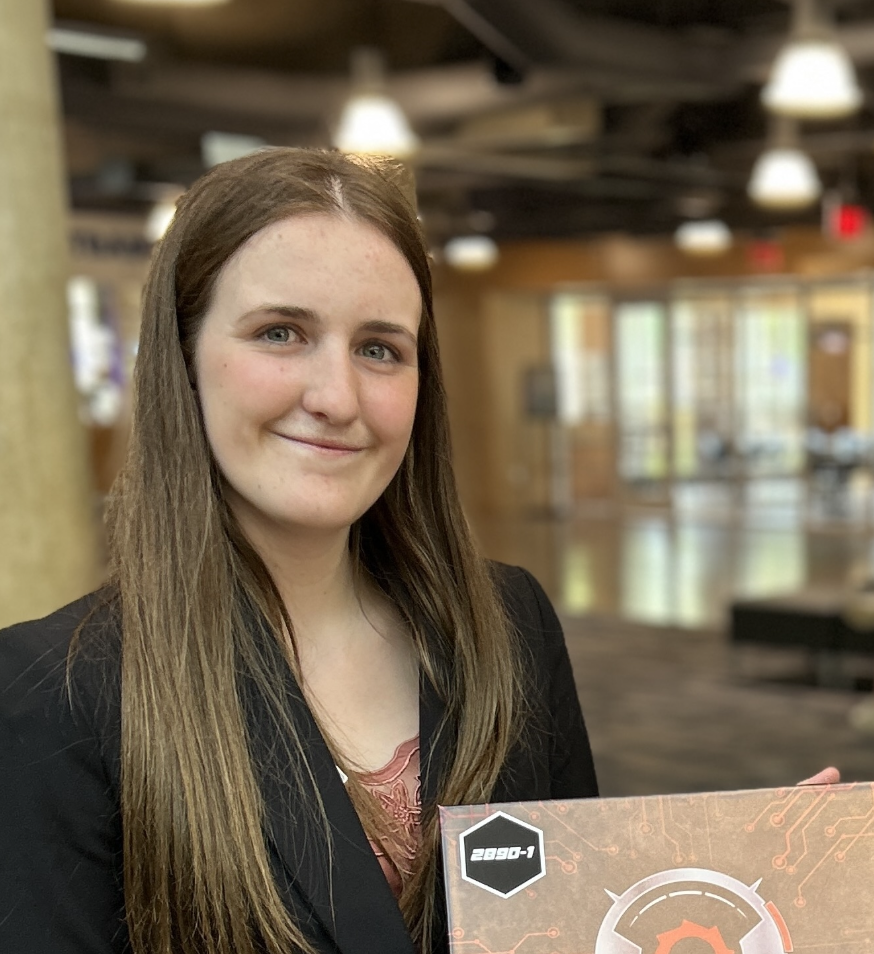
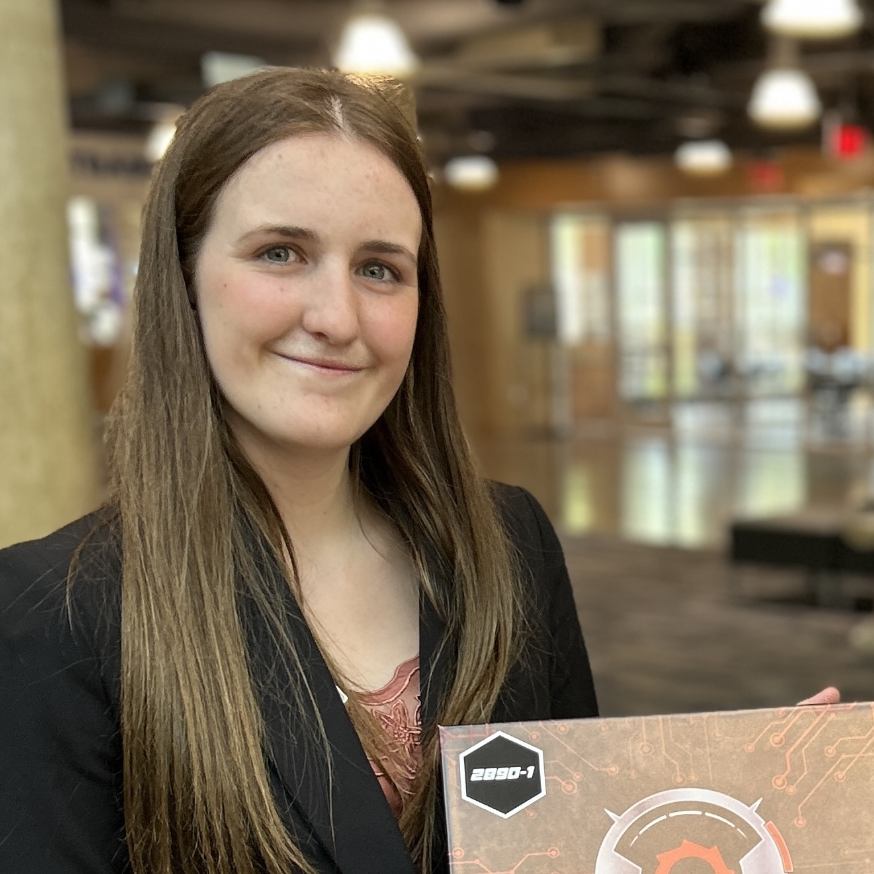
about.html Prevent images from stretching

diff --git a/css/styles2.css b/css/styles2.css
@@ -1,5 +1,6 @@
 .about img {
-    border: 3px solid var(--color-3)
+    border: 3px solid var(--color-3);
+    object-fit: contain;
 }
 
 .footer {
@@ -42,9 +43,6 @@
     padding: 1rem;
 }
 
-.the-authors img {
-    height: 500px;
-}
 
 /** END TODO */
 
